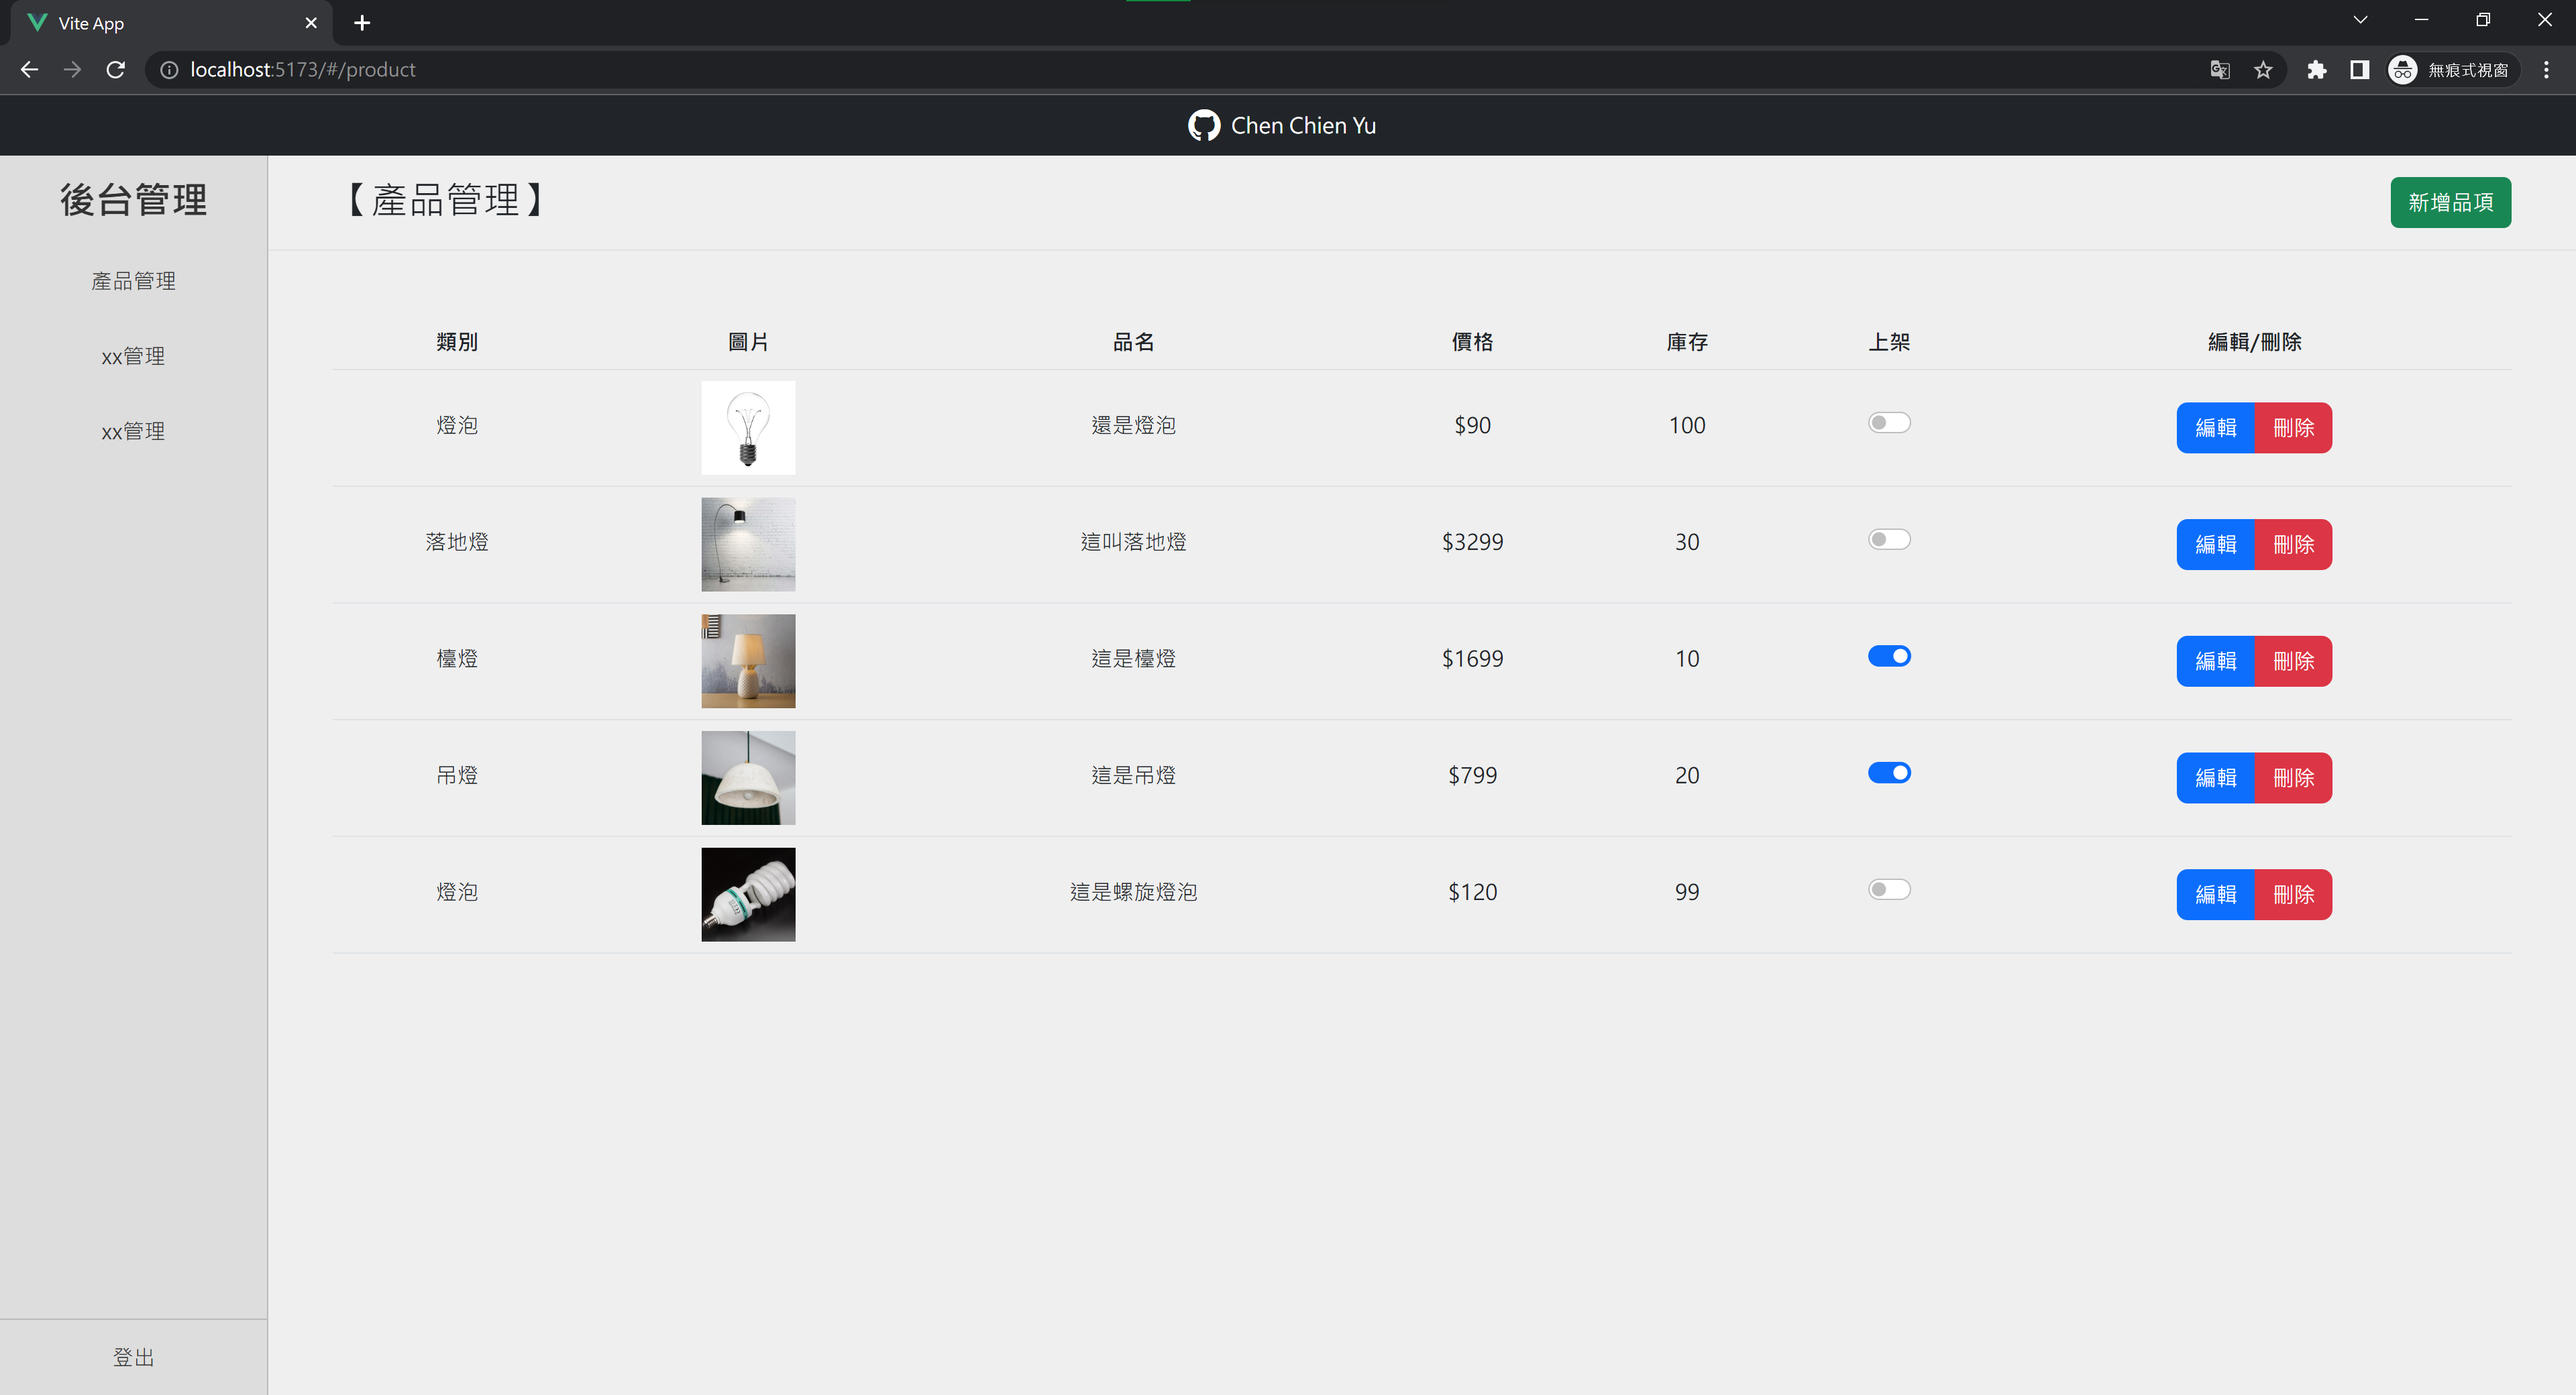
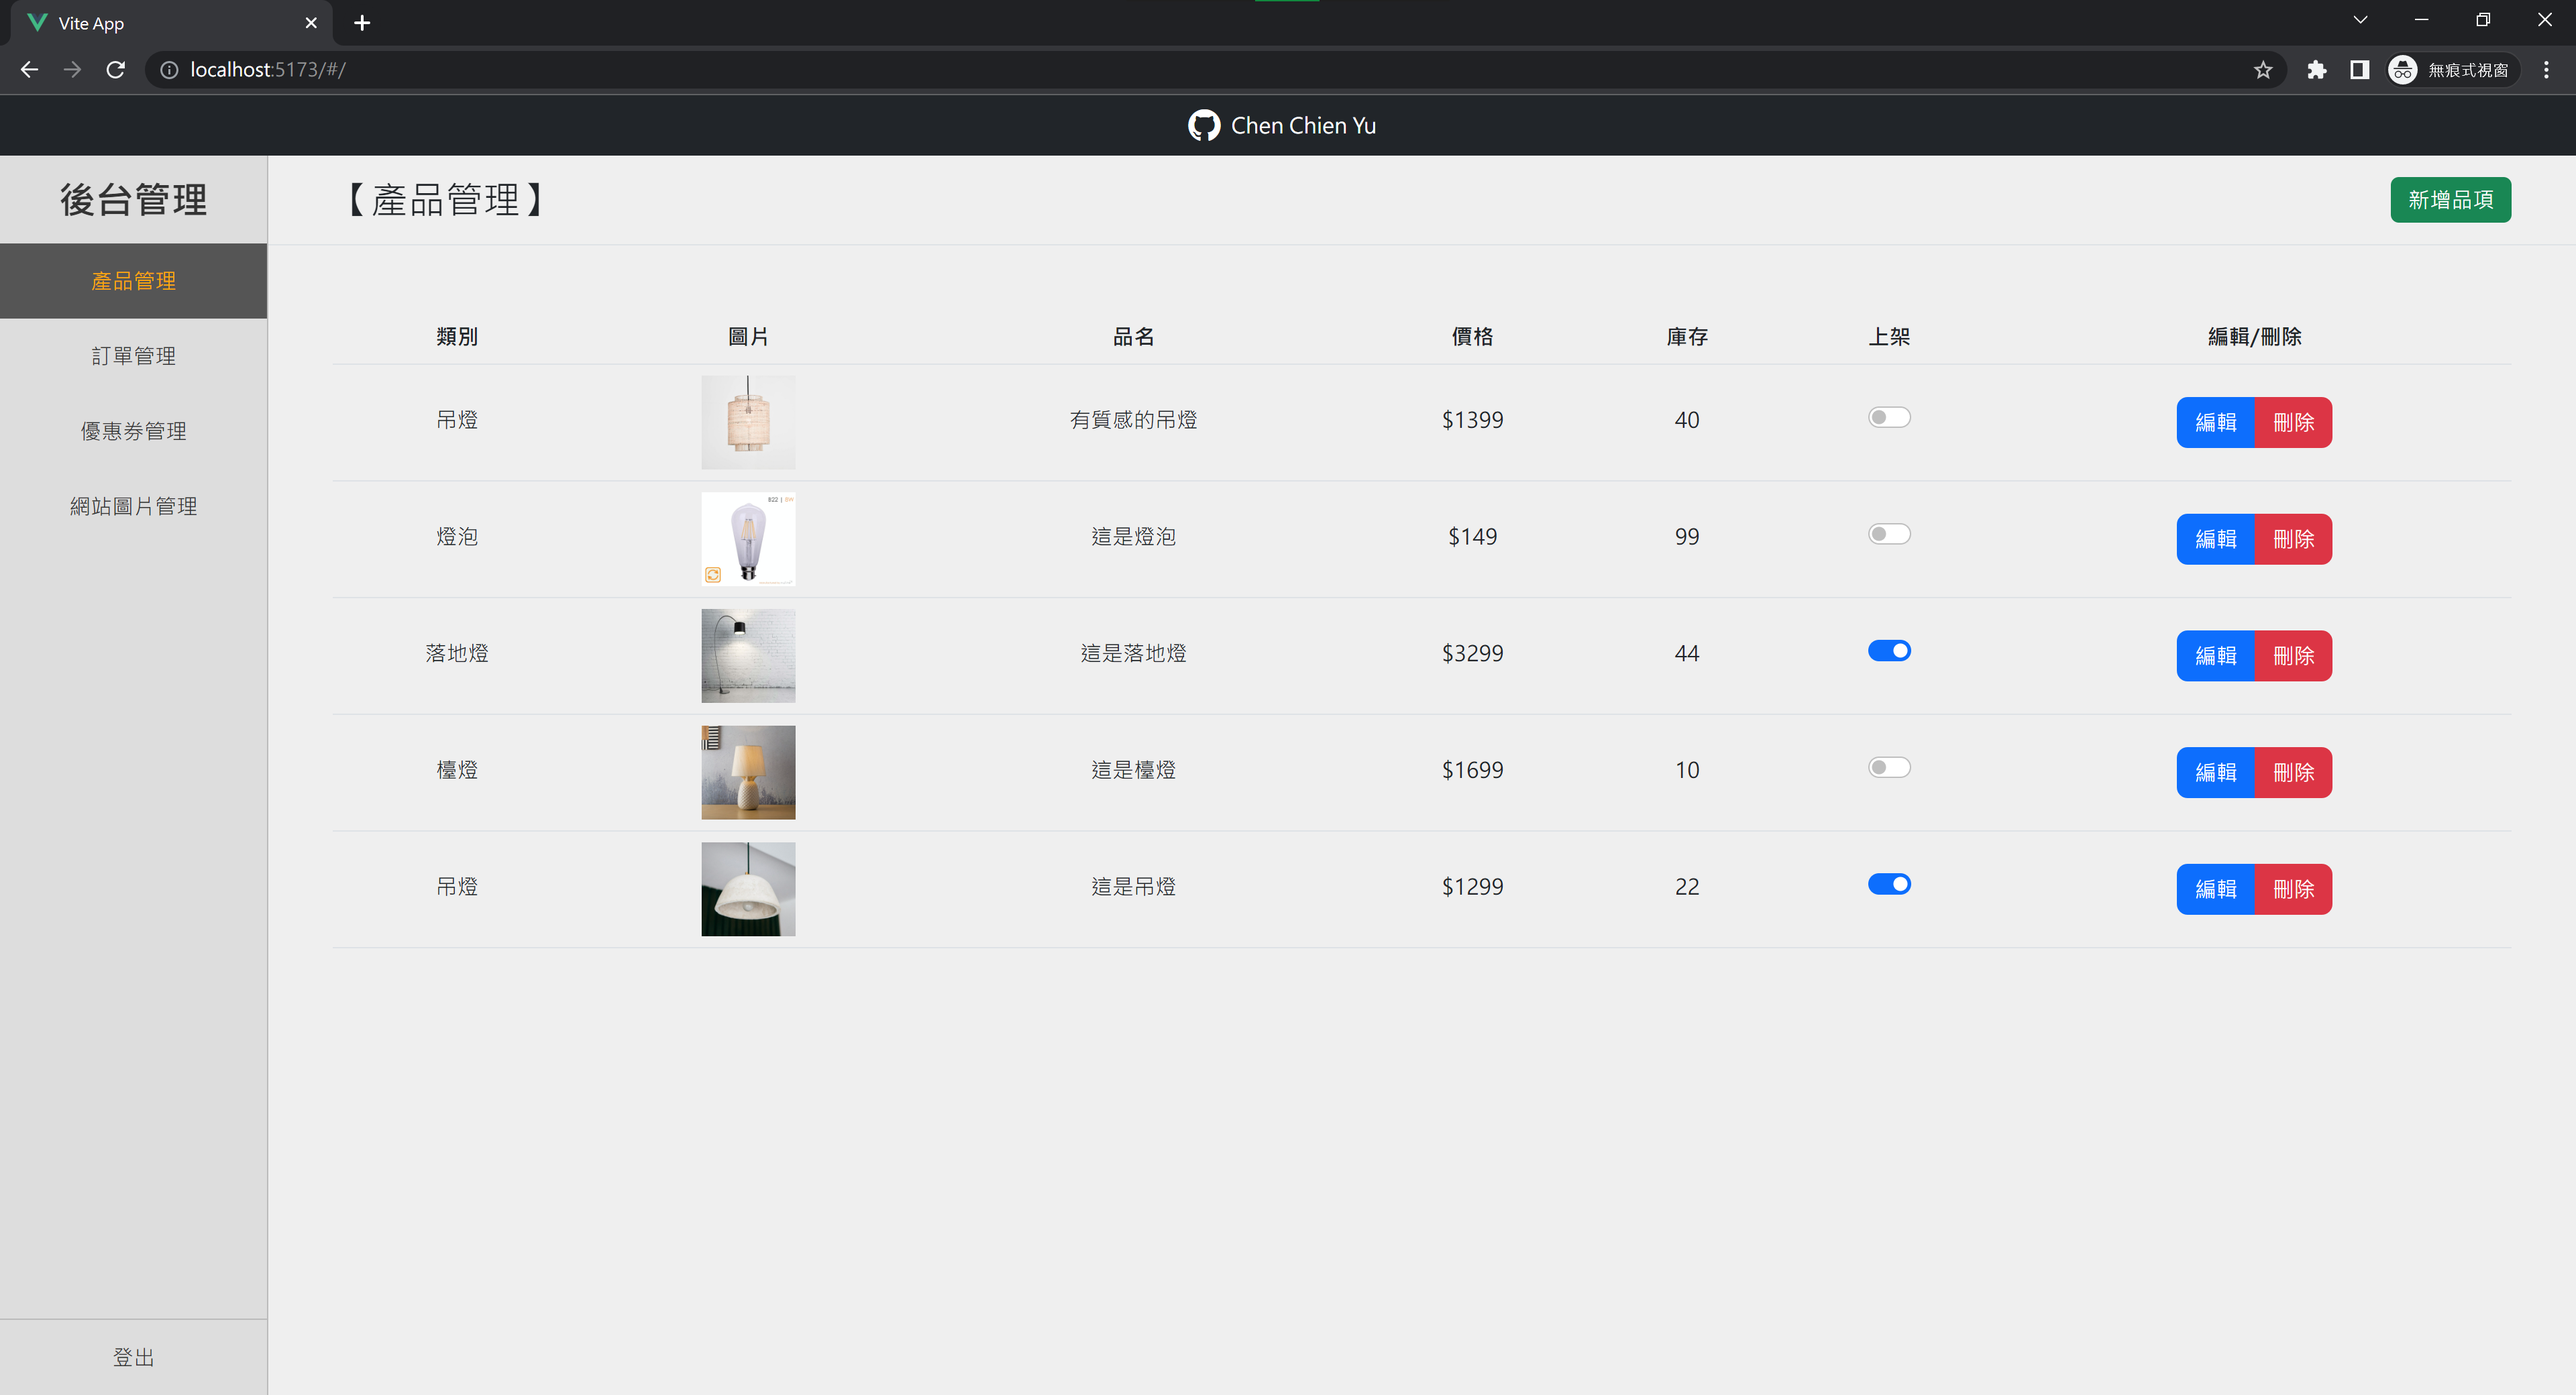
3/2 1. 設定路由，新增 訂單管理、優惠券管理、網站圖片管理，& 加上尚未施工遮罩畫面 2. readme更新

diff --git a/src/views/HomeView.vue b/src/views/HomeView.vue
@@ -1,4 +1,6 @@
 <script setup>
+import { useRoute } from 'vue-router';
+const route = useRoute();
 
 </script>
 
@@ -18,13 +20,24 @@
       <h3 class="fw-bolder text-center py-3 mb-0">後台管理</h3>
       <ul class="list-unstyled text-center">
         <li>
-          <RouterLink to="/product" class="py-3 d-block text-decoration-none">產品管理</RouterLink>
+          <RouterLink to="/" class="py-3 d-block text-decoration-none"
+          :class="{'active': route.path === '/'}">
+            產品管理</RouterLink>
         </li>
         <li>
-          <a href="#" class="py-3 d-block text-decoration-none">xx管理</a>
+          <RouterLink to="/order" class="py-3 d-block text-decoration-none"
+          :class="{'active': route.path === '/order'}">
+            訂單管理</RouterLink>
         </li>
         <li>
-          <a href="#" class="py-3 d-block text-decoration-none">xx管理</a>
+          <RouterLink to="/coupon" class="py-3 d-block text-decoration-none"
+          :class="{'active': route.path === '/coupon'}">
+            優惠券管理</RouterLink>
+        </li>
+        <li>
+          <RouterLink to="/image" class="py-3 d-block text-decoration-none"
+          :class="{'active': route.path === '/image'}">
+            網站圖片管理</RouterLink>
         </li>
       </ul>
       <a href="#" class="logout text-center d-block mt-auto py-3 text-decoration-none">登出</a>
@@ -57,6 +70,10 @@ aside.side-menu{
   }
   a.logout{
     border-top: 1px solid #bbb;
+  }
+  a.active{
+    background: #555;
+    color: #fa0;
   }  
 }
 

diff --git a/src/router/index.js b/src/router/index.js
@@ -10,18 +10,31 @@ const router = createRouter({
       component: HomeView,
       children: [
         {
-          path: 'product',
+          // path: 'product',
+          path: '/',
           name: '產品管理',
           component: () => import('../views/ProductManagement.vue')
+        },
+        {
+          path: 'order',
+          name: '訂單管理',
+          component: () => import('../views/OrderManagement.vue')
+        },
+        {
+          path: 'coupon',
+          name: '優惠券管理',
+          component: () => import('../views/CouponManagement.vue')
+        },
+        {
+          path: 'image',
+          name: '網站圖片管理',
+          component: () => import('../views/ImageManagement.vue')
         }
       ],
     },
     {
       path: '/about',
       name: 'about',
-      // route level code-splitting
-      // this generates a separate chunk (About.[hash].js) for this route
-      // which is lazy-loaded when the route is visited.
       component: () => import('../views/AboutView.vue')
     },
   ]

diff --git a/src/components/Constructing.vue b/src/components/Constructing.vue
@@ -1,0 +1,36 @@
+<template>
+  <div class="mask">
+    <div class="blur">
+      <h2 class="text-white">本頁面尚未開工...</h2>
+    </div>
+  </div>
+</template>
+
+<script setup>
+
+</script>
+
+<style lang="scss" scoped>
+div.mask{
+  position: relative;
+  width: 100%;
+  height: calc(100vh - 44.8px);
+  background: url('../assets/bulldozer-g62c6289b7_1280.jpg');
+  background-repeat: no-repeat;
+  background-size: cover;
+  background-position: center 80%;
+  .blur{
+    position: absolute;
+    top: 0;
+    left: 0;
+    right: 0;
+    bottom: 0;
+    background: #0000009f;
+    backdrop-filter: blur(10px);
+    display: flex;
+    justify-content: center;
+    align-items: center;
+  }
+}
+
+</style>

diff --git a/src/components/ProductModal.vue b/src/components/ProductModal.vue
@@ -115,7 +115,7 @@ onMounted(() => {
     <!--  -->
       <div class="modal-content">
         <div class="modal-header">
-          <h1 class="modal-title fs-5" id="exampleModalLabel">新增產品</h1>
+          <h1 class="modal-title fs-5" id="exampleModalLabel">新增/編輯 產品</h1>
           <button type="button" class="btn-close" data-bs-dismiss="modal" aria-label="Close"></button>
         </div>
         <div class="modal-body d-flex justify-content-around">

diff --git a/src/views/ProductManagement.vue b/src/views/ProductManagement.vue
@@ -44,7 +44,7 @@ onMounted(() => {
   <!-- 上方列 -->
   <div class="border-bottom d-flex justify-content-between px-5 py-3 mb-5">
     <h3 class="mb-0">【產品管理】</h3>
-    <button class="btn btn-success" data-bs-toggle="modal" data-bs-target="#exampleModal"
+    <button class="btn btn-success py-1" data-bs-toggle="modal" data-bs-target="#exampleModal"
       data-bs-whatever="@mdo" @click="addProduct">新增品項</button>
   </div>
   <!-- 彈出視窗 -->

diff --git a/src/views/CouponManagement.vue b/src/views/CouponManagement.vue
@@ -1,0 +1,12 @@
+<template>
+  <div>
+    <Constructing />
+  </div>
+</template>
+
+<script setup>
+import Constructing from '../components/Constructing.vue';
+</script>
+
+<style lang="scss" scoped>
+</style>

diff --git a/src/views/ImageManagement.vue b/src/views/ImageManagement.vue
@@ -1,0 +1,12 @@
+<template>
+  <div>
+    <Constructing />
+  </div>
+</template>
+
+<script setup>
+import Constructing from '../components/Constructing.vue';
+</script>
+
+<style lang="scss" scoped>
+</style>

diff --git a/src/views/OrderManagement.vue b/src/views/OrderManagement.vue
@@ -1,0 +1,12 @@
+<template>
+  <div>
+    <Constructing />
+  </div>
+</template>
+
+<script setup>
+import Constructing from '../components/Constructing.vue';
+</script>
+
+<style lang="scss" scoped>
+</style>

diff --git a/README.md b/README.md
@@ -1,6 +1,15 @@
 # 自製後台管理系統
 
 ![image](demo_pic/ss01.png)
+![image](demo_pic/ss02.png)
+
+<br>
+
+### 尚未製作頁面暫時以此畫面顯示↓
+
+![image](demo_pic/ss03.png)
+
+***
 
 ## 使用技術、套件
 
